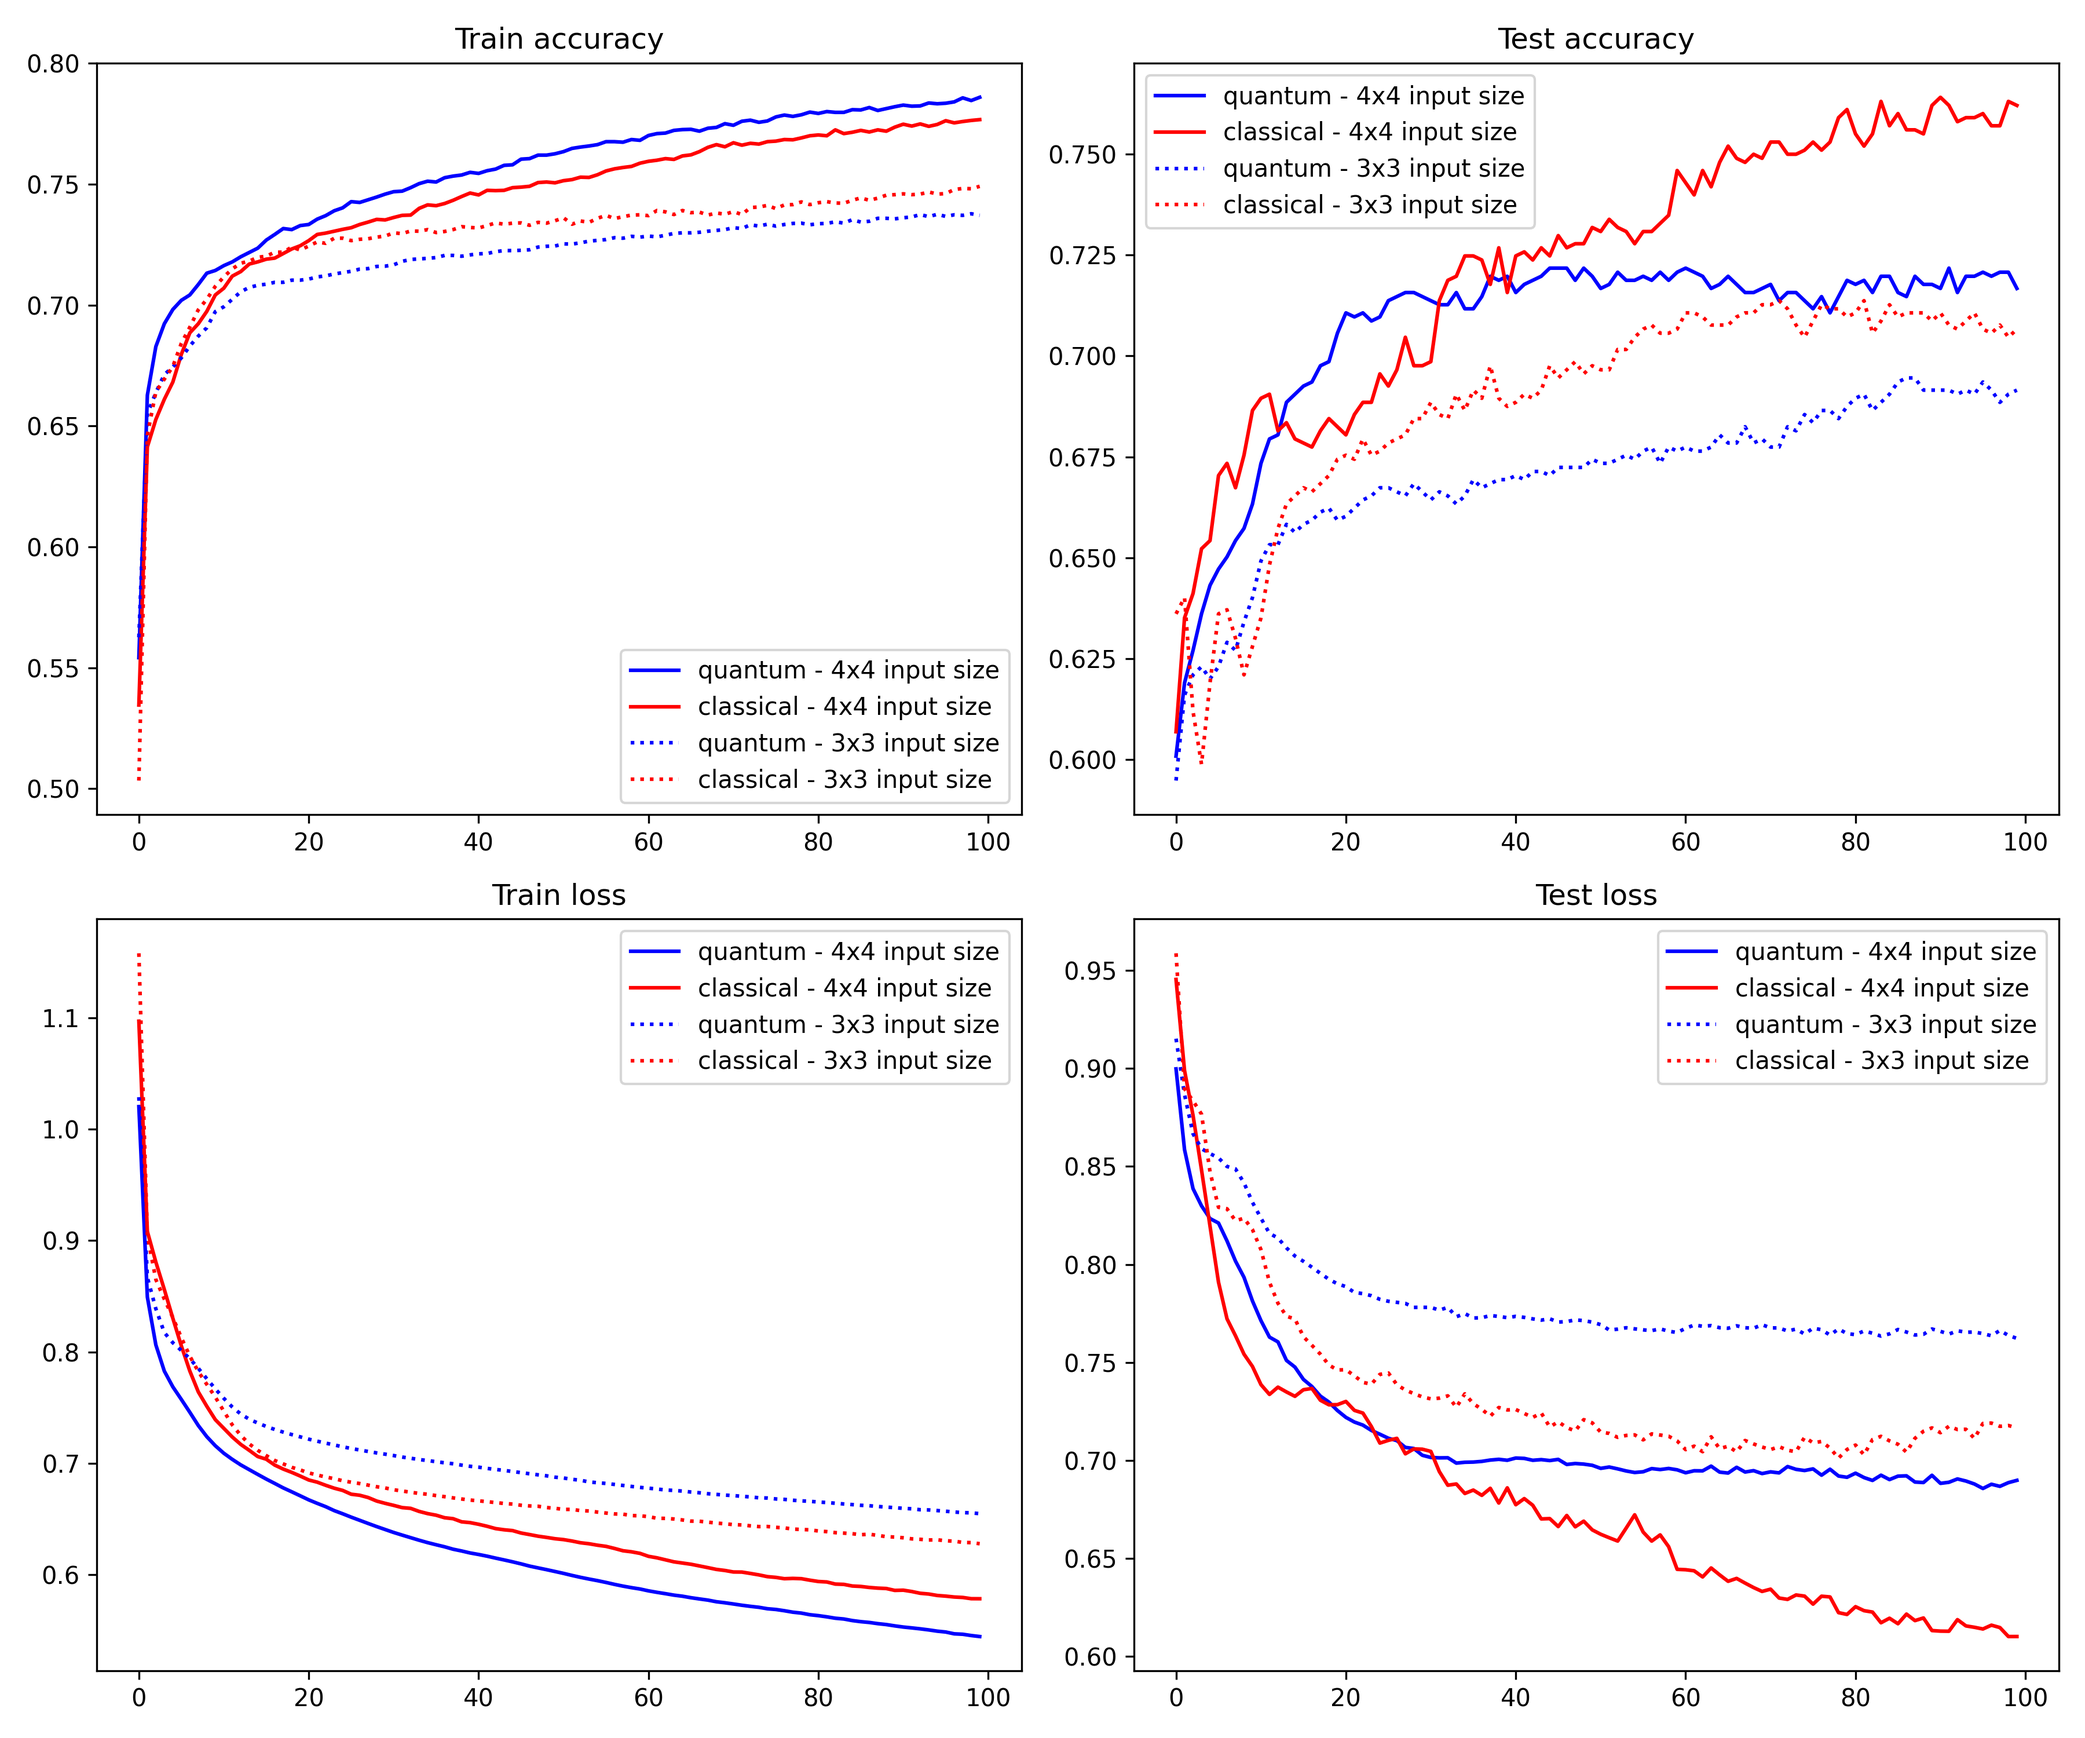
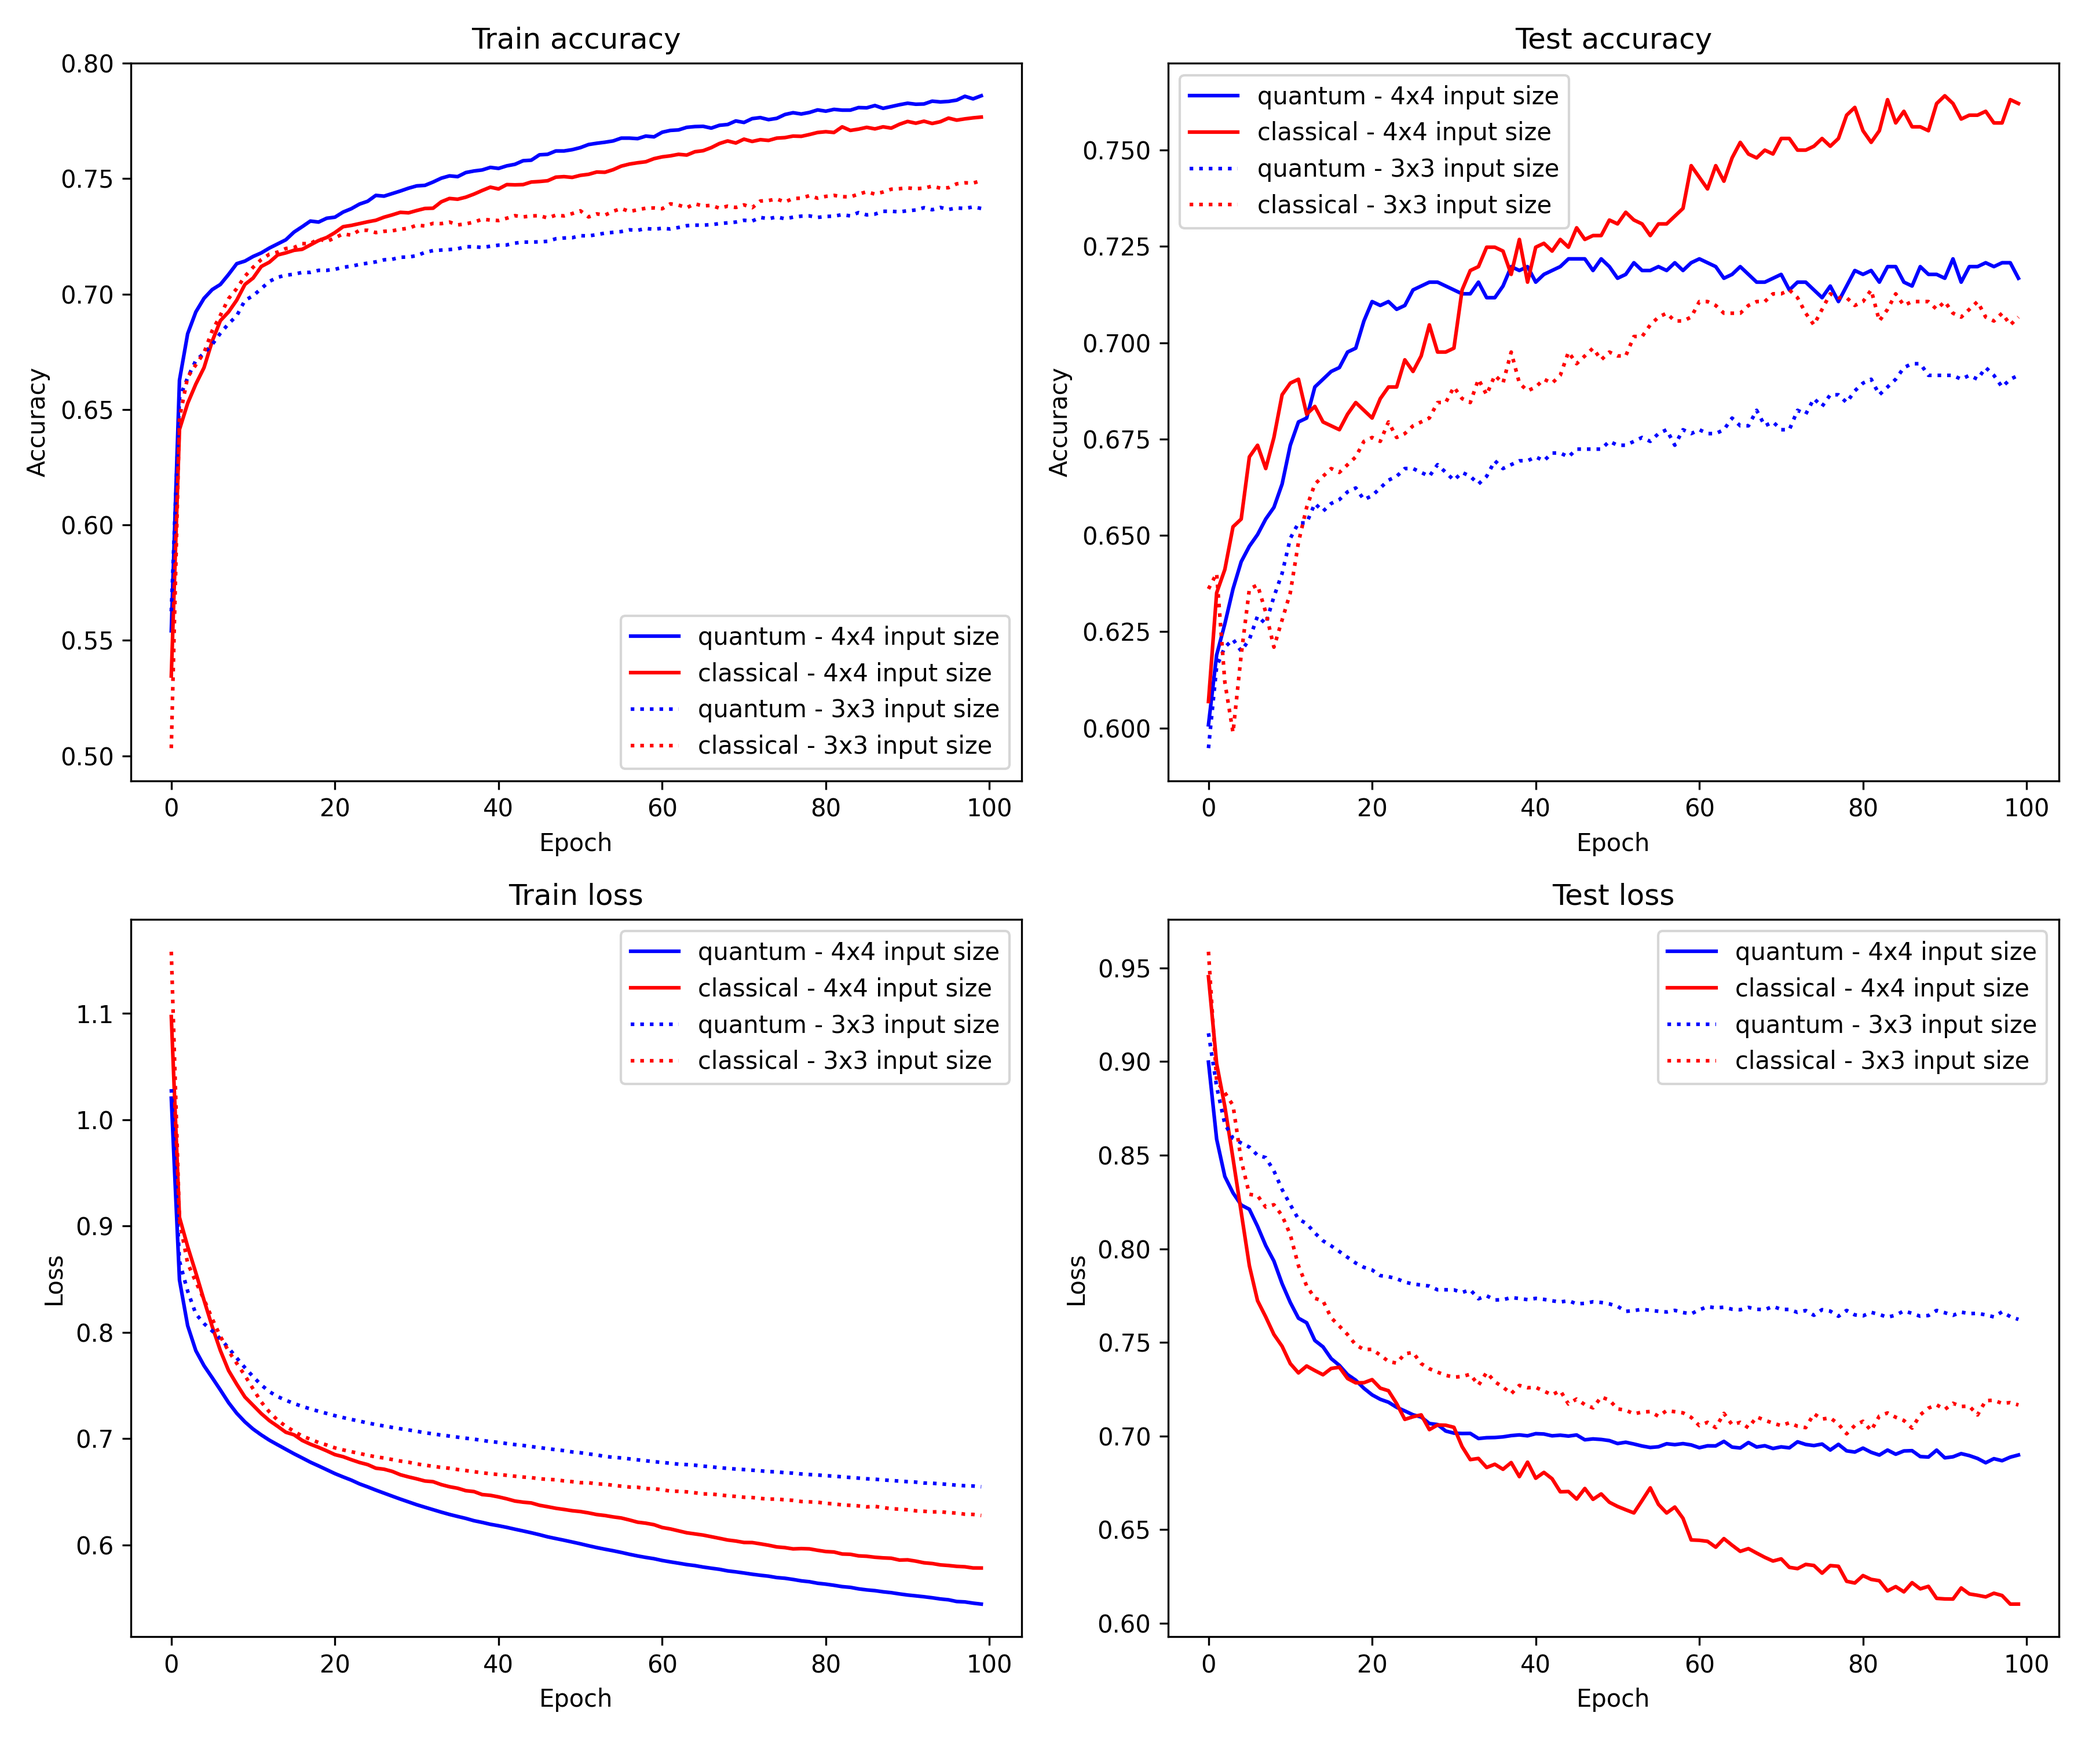
results

diff --git a/plot_results.py b/plot_results.py
@@ -9,6 +9,8 @@ plt.plot(c_bs32_ds4_ep100[1], label='classical - 4x4 input size', c='r')
 plt.plot(q_bs32_ds3_ep100[1], label='quantum - 3x3 input size', c='b', linestyle=':')
 plt.plot(c_bs32_ds3_ep100[1], label='classical - 3x3 input size', c='r', linestyle=':')
 plt.legend()
+plt.xlabel('Epoch')
+plt.ylabel('Accuracy')
 plt.title('Train accuracy')
 
 plt.subplot(2, 2, 2)
@@ -17,6 +19,8 @@ plt.plot(c_bs32_ds4_ep100[3], label='classical - 4x4 input size', c='r')
 plt.plot(q_bs32_ds3_ep100[3], label='quantum - 3x3 input size', c='b', linestyle=':')
 plt.plot(c_bs32_ds3_ep100[3], label='classical - 3x3 input size', c='r', linestyle=':')
 plt.legend()
+plt.xlabel('Epoch')
+plt.ylabel('Accuracy')
 plt.title('Test accuracy')
 
 plt.subplot(2, 2, 3)
@@ -25,6 +29,8 @@ plt.plot(c_bs32_ds4_ep100[0], label='classical - 4x4 input size', c='r')
 plt.plot(q_bs32_ds3_ep100[0], label='quantum - 3x3 input size', c='b', linestyle=':')
 plt.plot(c_bs32_ds3_ep100[0], label='classical - 3x3 input size', c='r', linestyle=':')
 plt.legend()
+plt.xlabel('Epoch')
+plt.ylabel('Loss')
 plt.title('Train loss')
 
 plt.subplot(2, 2, 4)
@@ -33,7 +39,33 @@ plt.plot(c_bs32_ds4_ep100[2], label='classical - 4x4 input size', c='r')
 plt.plot(q_bs32_ds3_ep100[2], label='quantum - 3x3 input size', c='b', linestyle=':')
 plt.plot(c_bs32_ds3_ep100[2], label='classical - 3x3 input size', c='r', linestyle=':')
 plt.legend()
+plt.xlabel('Epoch')
+plt.ylabel('Loss')
 plt.title('Test loss')
 plt.tight_layout()
 
 plt.savefig('results_2kernels.png', dpi=300)
+
+plt.figure(figsize=(12, 5))
+plt.subplot(1, 2, 1)
+plt.plot(q_bs32_ds4_ep100_k4[0], label='train loss - 4 quantum kernels', c='b')
+plt.plot(q_bs32_ds4_ep100[0], label='train loss - 2 quantum kernels', c='r')
+plt.plot(q_bs32_ds4_ep100_k4[2], label='test loss - 4 quantum kernels', c='b', linestyle=':')
+plt.plot(q_bs32_ds4_ep100[2], label='test loss - 2 quantum kernels', c='r', linestyle=':')
+plt.legend()
+plt.xlabel('Epoch')
+plt.ylabel('Loss')
+plt.title('Loss')
+
+plt.subplot(1, 2, 2)
+plt.plot(q_bs32_ds4_ep100_k4[1], label='train accuracy - 4 quantum kernels', c='b')
+plt.plot(q_bs32_ds4_ep100[1], label='train accuracy - 2 quantum kernels', c='r')
+plt.plot(q_bs32_ds4_ep100_k4[3], label='test accuracy - 4 quantum kernels', c='b', linestyle=':')
+plt.plot(q_bs32_ds4_ep100[3], label='test accuracy - 2 quantum kernels', c='r', linestyle=':')
+plt.legend()
+plt.xlabel('Epoch')
+plt.ylabel('Accuracy')
+plt.title('Accuracy')
+plt.tight_layout()
+
+plt.savefig('results_4kernels.png', dpi=300)

diff --git a/README.md b/README.md
@@ -4,8 +4,12 @@ Here we implement the Hybrid Quantum Classical Convolutional Neural Network (HQC
 
 As the images from this dataset contain 4 channels instead of the single channels present in MNIST, we first collapse the channels into a single channel using a pixel-wise mean, and then downsample to the required input shape of the network using an average pooling operation.  Moreover, due to limited availability of computing power, we take only 10000 images for training and testing with a 90%-10% split, respectively, instead of the full 500000 available images.
 
-The HQCCNN uses 2 quantum convolutional kernels, each with an associated pooling operation.  It was trained for 100 epochs with a batch size of 32 and learning rate of 0.001.  A classical convolutional network with an equivalent architecture utilizing classical convolution layers was also created and trained under the same condition. The results of training are shown below.
+The HQCCNN uses 2 quantum convolutional kernels, each with an associated pooling operation.  It was trained for 100 epochs with a batch size of 32 and learning rate of 0.001.  A classical convolutional network with an equivalent architecture utilizing classical convolution layers was also created and trained under the same condition.  These models were both trained and evaluated using input image size of (4, 4) and (3, 3). cThe results of training are shown below.
 
-![results]()
+![results](./results_2kernels.png)
 
-Despite the significant downsampling and size reduction of the dataset, we obtain moderate classification accuracy in both the classical and quantum networks.
+A quantum model using 4 quantum convolutional kernels was also created and compared to the previous.  The results are shown below.
+
+![results](./results_4kernels.png)
+
+Despite the significant downsampling and size reduction of the dataset, we obtain moderate classification accuracy in both the classical and quantum networks.  However, cotradictory to the original paper, the quantum network consistently performs worse than its classical equivalent.
